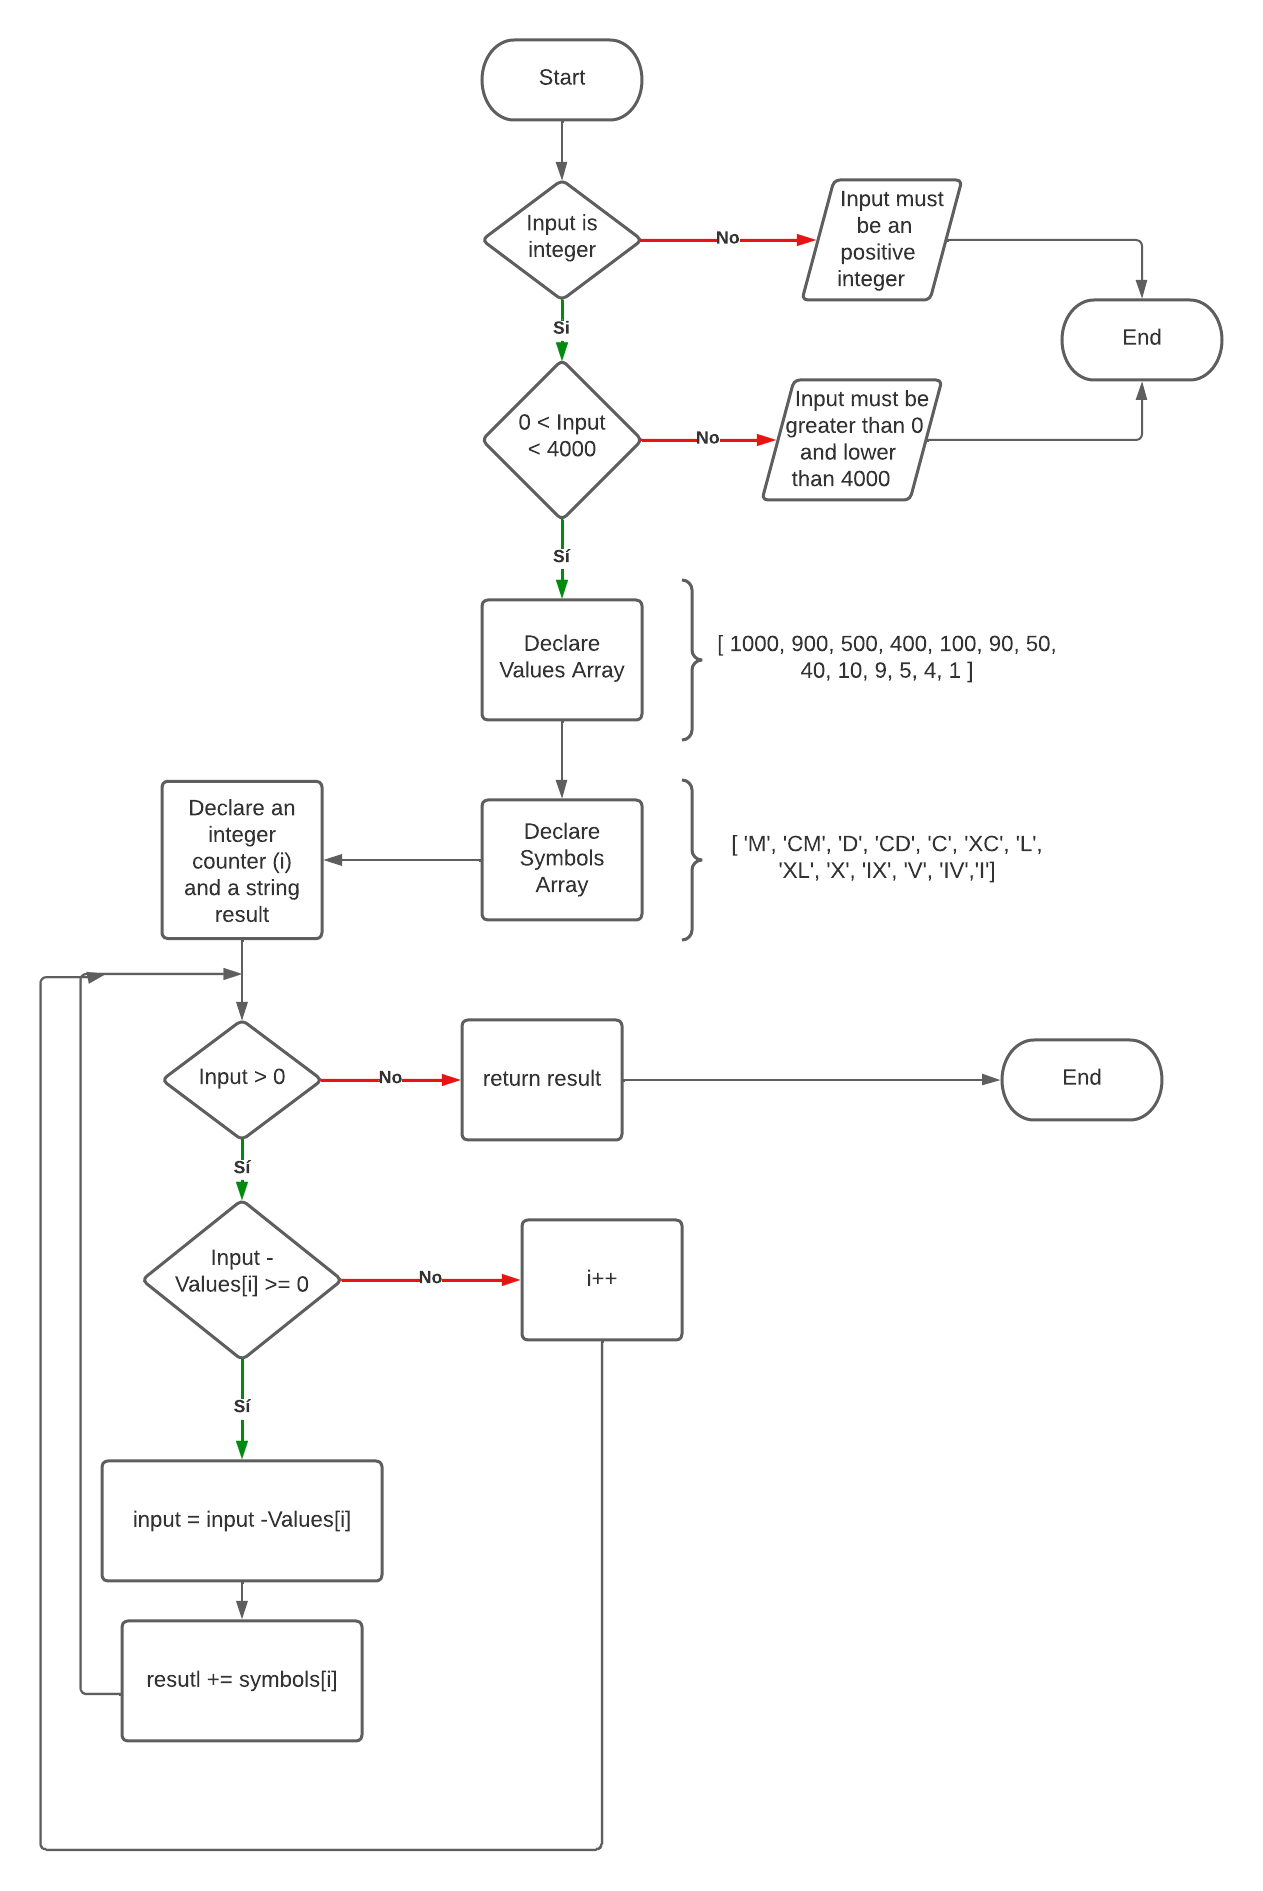
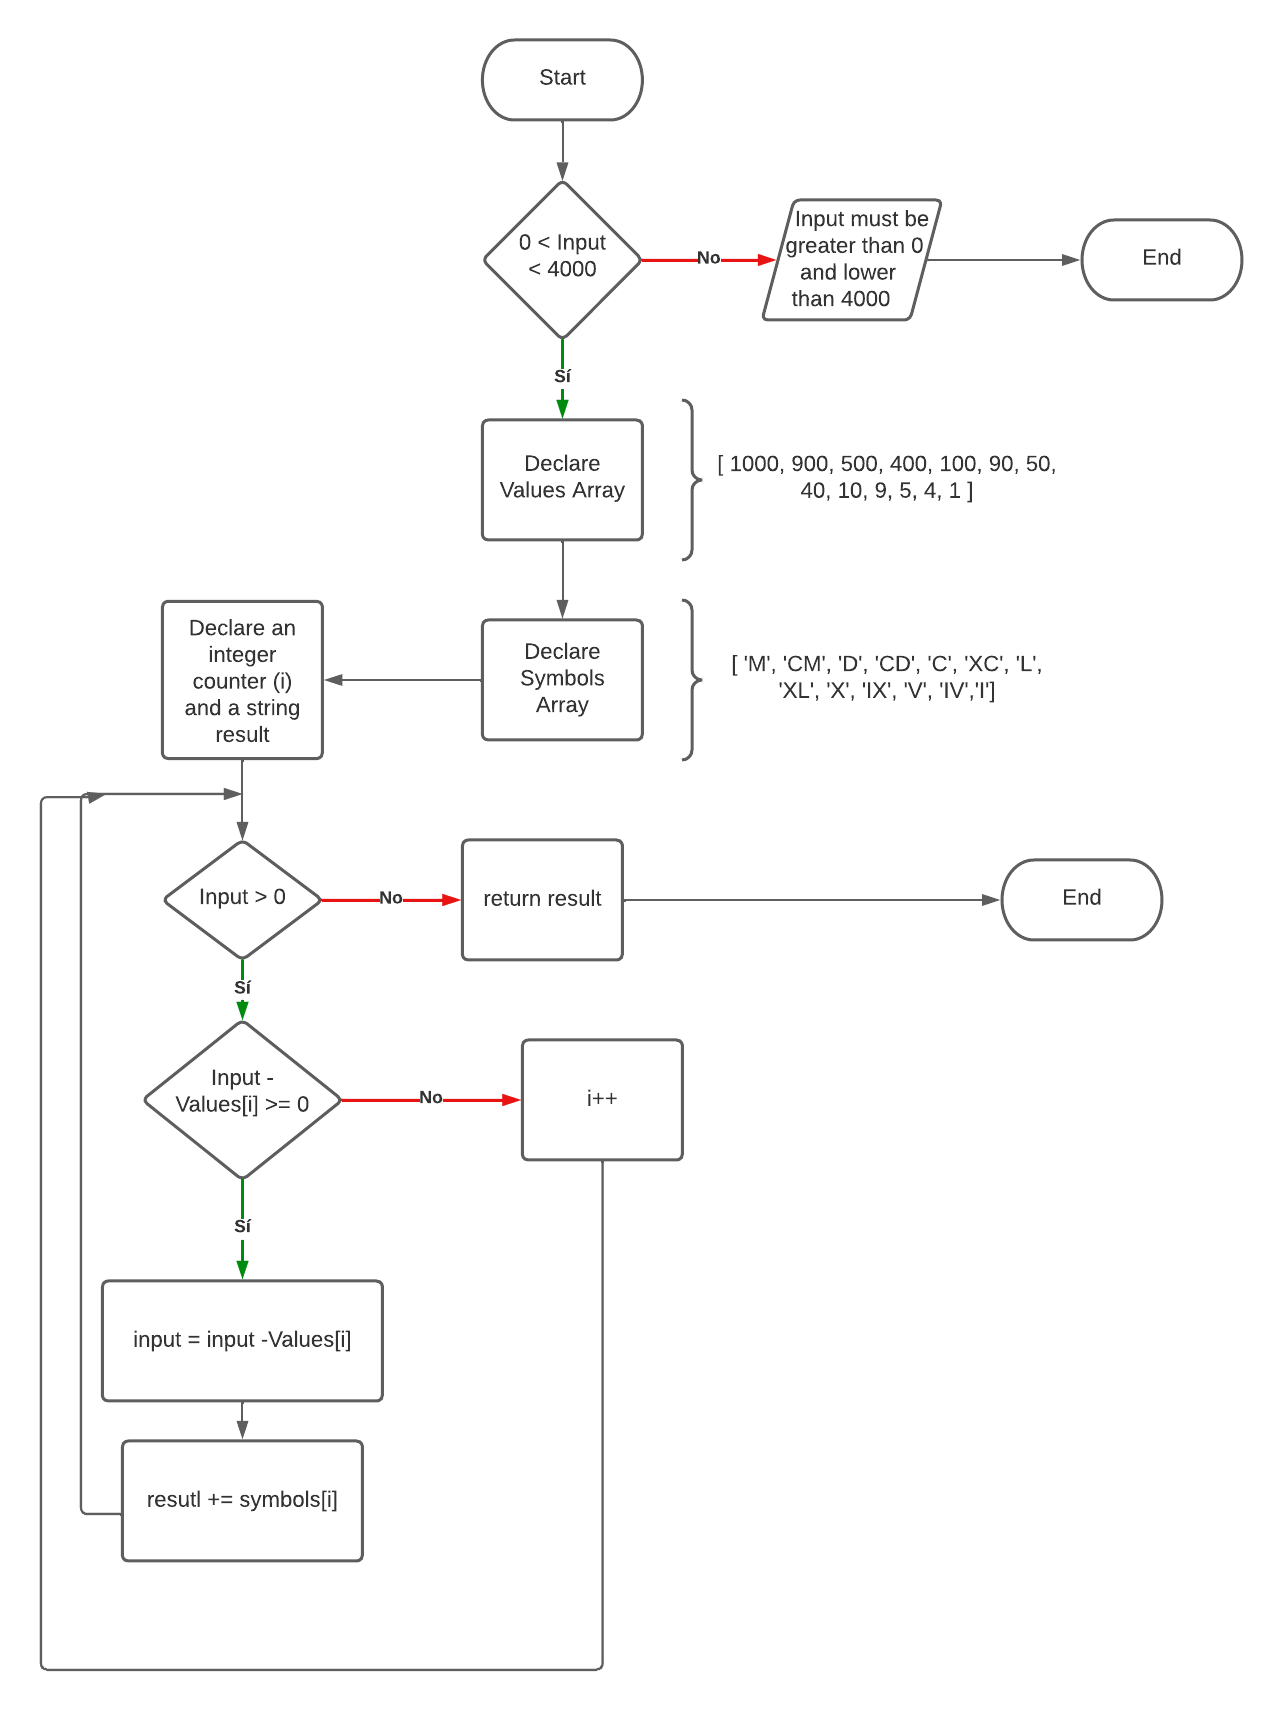
Roman Numeral Representation Code
Roman Numeral Representation Code Implemented and tests with code

diff --git a/RomanNumeralRep/Program.cs b/RomanNumeralRep/Program.cs
@@ -4,7 +4,62 @@
     {
         static void Main(string[] args)
         {
-            Console.WriteLine("Hello, World!");
+            //TESTS
+            Console.WriteLine("--- Test One --- ");
+            int inputNumberOne = 0;
+            string resultOne = RomanNumeralRep(inputNumberOne);
+            Console.WriteLine("Input: {0}.  Output: {1}", inputNumberOne, resultOne);
+
+            Console.WriteLine("\n--- Test Two --- ");
+            int inputNumberTwo = 1998;
+            string resultTwo = RomanNumeralRep(inputNumberTwo);
+            Console.WriteLine("Input: {0}.  Output: {1}", inputNumberTwo, resultTwo);
+
+            Console.WriteLine("\n--- Test Three --- ");
+            int inputNumberThree = 166;
+            string resultThree = RomanNumeralRep(inputNumberThree);
+            Console.WriteLine("Input: {0}.  Output: {1}", inputNumberThree, resultThree);
+
+            Console.WriteLine("\n--- Test Four --- ");
+            int inputNumberFour = 3999;
+            string resulFour = RomanNumeralRep(inputNumberFour);
+            Console.WriteLine("Input: {0}.  Output: {1}", inputNumberFour, resulFour);
+
+            Console.WriteLine("\n--- Test Five --- ");
+            int inputNumberFive = 4000;
+            string resultFive = RomanNumeralRep(inputNumberFive);
+            Console.WriteLine("Input: {0}.  Output: {1}", inputNumberFive, resultFive);
+        }
+
+        static string RomanNumeralRep(int inputNumber)
+        {
+            string result = "";
+
+            if(inputNumber > 0 && inputNumber < 4000)
+            {
+                int[] valuesArray = new int[13] { 1000, 900, 500, 400, 100, 90, 50, 40, 10, 9, 5, 4, 1 };
+                string[] symbolsArray = new string[13] { "M", "CM", "D", "CD", "C", "XC", "L", "XL", "X", "IX", "V", "IV", "I" };
+                int i = 0;
+
+                while( inputNumber > 0) 
+                {
+                    if( inputNumber - valuesArray[i] >= 0 )
+                    {
+                        inputNumber = inputNumber - valuesArray[i];
+                        result += symbolsArray[i];
+                    }
+                    else
+                    {
+                        i++;
+                    }
+                }
+            }
+            else
+            {
+                result = "Input must be greater than 0 and lower than 4000";
+            }
+
+            return result;
         }
     }
 }

diff --git a/RomanNumeralRep/Readme.md b/RomanNumeralRep/Readme.md
@@ -40,21 +40,19 @@ The program will receive a positive integer and will return the Roman Numeral Re
 * An error message if the input is bigger than 3999
 
 ## Pseudocode
-1. Validate if the input is an integer
-   1. If not return a message saying that the input must be an integer
-2. Validate if the input is greater than 0
+1. Validate if the input is greater than 0
    1. If not return a message saying the input must be greater than 0
-3. Validate if the in put is lower than 4000
+2. Validate if the in put is lower than 4000
    1. If not return a message saying that the input musht be lower than 4000
-4.  Declare an array with the posible values that  Roman can take order from the biggest to the smallest. `[ 1000, 900, 500, 400, 100, 90, 50, 40, 10, 9, 5, 4, 1 ]`
-5. Declare an array with the Symbols of that values
+3.  Declare an array with the posible values that  Roman can take order from the biggest to the smallest. `[ 1000, 900, 500, 400, 100, 90, 50, 40, 10, 9, 5, 4, 1 ]`
+4. Declare an array with the Symbols of that values
 `[ 'M', 'CM', 'D', 'CD', 'C', 'XC', 'L', 'XL', 'X', 'IX', 'V', 'IV','I']`
-6. Declare a integer counter. 
-7. Declare a string that will be the result. 
-8. While the input number is greater than 0
+5. Declare a integer counter. 
+6. Declare a string that will be the result. 
+7. While the input number is greater than 0
    1. If the substraction of the input with the element in the values array in the counter position is greater than 0, then substract that value and add the corresponding symbol to the string result.
    2. If not. Add 1 to the counter to use a lower value. 
-9. Return the corresponding string result.
+8. Return the corresponding string result.
     
 ## Flow Diagram
 ![Flow](img/Roman%20Numeral%20Representation.png)
@@ -62,6 +60,6 @@ The program will receive a positive integer and will return the Roman Numeral Re
 ## Test Cases
 * 0 => Message Error
 * 1998 => "MCMXCVIII"
-* 166 => "CDXVI"
+* 166 => "CLXVI"
 * 3999 => "MMMCMXCIX"
 * 4000 => Message Error
